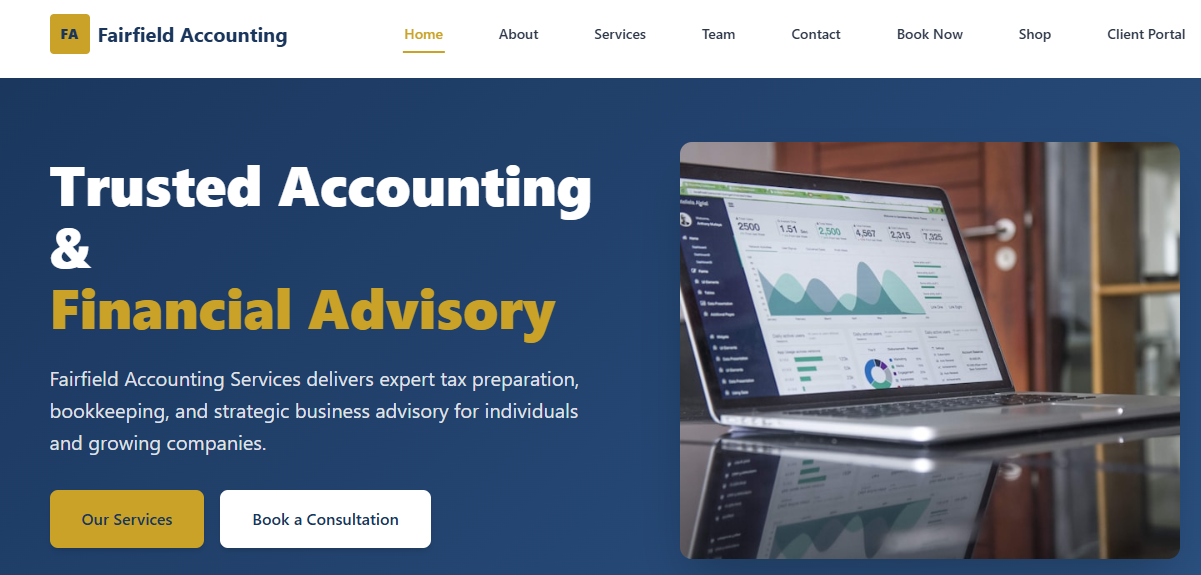
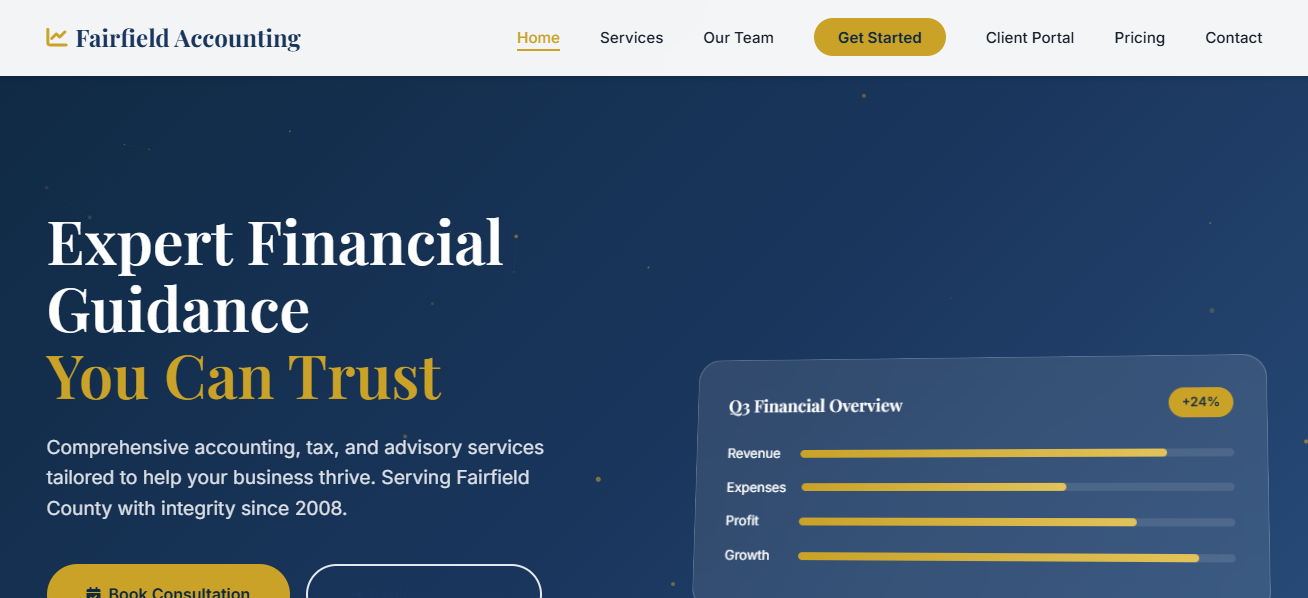
updated fairfield accounting preview image

diff --git a/index.html b/index.html
@@ -430,7 +430,8 @@
       </div>
     </section>
 
-    <!-- Testimonials -->
+
+    <!-- Testimonials
     <section class="testimonials">
       <div class="container">
         <h2>What Clients Say</h2>
@@ -454,7 +455,7 @@
           </div>
         </div>
       </div>
-    </section>
+    </section> -->
 
     <!-- Contact Section -->
     <section id="contact" class="contact">